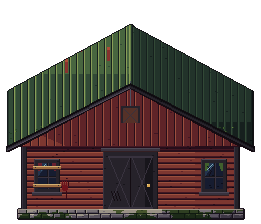
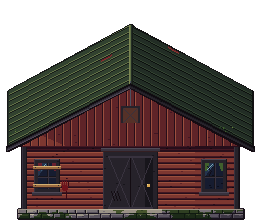
Run redesigned from a per-frame leg table (airborne frame, heel kick, lean 4); grab carry pose; tin roofs with 2 px ribs installed (6 vs 5), eave wear and orange rust; motion round 2 logged
Claude-Session: https://claude.ai/code/session_01P6pGQCq2oe4GSAnTdGYxNB

Changed region(s): [[0.0307, 0.125, 0.9808, 0.6562], [0.9502, 0.625, 0.9808, 0.6562]]

diff --git a/hollow-acre/2d/tools/px/chibi3.js b/hollow-acre/2d/tools/px/chibi3.js
@@ -465,19 +465,20 @@ function human(dir,pose){SIT=!!pose.sit;const side=dir==='E'||dir==='W',fl=dir==
 // the run (owner, Nov 10: "I miss the old one. The arm swing is good but the tilting and legs look weird"): the old run's
 // lean, bounce and legs, with the new arm pump (each bent arm against its own-side leg, still bent on the passing frames)
 function runPose(f,dir){const pose={};const side=dir==='E'||dir==='W',back=dir==='N',fl=dir==='W'?-1:1;
-  const ph=(f-1)/8*Math.PI*2,c=Math.cos(ph),s=Math.sin(ph);const S=KID?4:5;
-  /* motion judge r2 (ground track): the old legs lifted the foot while it travelled back, so the planted foot slid forward
-     (a moonwalk) and the passing foot hid behind the standing shin, which read as a skip. Now the planted foot travels
-     back, the lifted one swings forward trailing 3 px behind the standing shin; the body is low just before the passing
-     frame (the support knee bent) and high after push-off, never more than 1 px between neighbouring frames */
-  const D=[0,0,1,0,-1,0,1,0,-1][f]||0;pose.crouch=(f%4===2||f%4===3)?1:0;pose.bob=D-pose.crouch;pose.hairLag=0;pose.lean=3;pose.nod=side?0:1;
-  if(side){const a=Math.round(c*S),b=-a;const liftA=s<0?Math.round(-s*4):0,liftB=s>0?Math.round(s*4):0;
-    const tuck=(d,l)=>l>2?d-3:d-Math.round(l*.5);pose.legs=[[tuck(a,liftA),liftA],[tuck(b,liftB),liftB]];
-    const base=6,A=1.5;const hand=(k,far)=>{const dx=Math.round(k*A);if(dx===0)return [fl*(far?0:2),base-2];
+  const ph=(f-1)/8*Math.PI*2,c=Math.cos(ph);
+  /* motion judge r3: a run is not a fast walk. Each leg follows its own table (foot offset forward, lift): contact in front,
+     support under the hips, push off on the toe, AIRBORNE (both feet up), heel kicked up behind, tucked high through the
+     pass, knee forward, reaching. The other leg is the same table half a cycle on. A stride longer than the walk's, a
+     moderate lean (owner: the old run's 3 read better than 6), the body low on the support frames, never 1 px more between
+     neighbours; the arm pump the owner liked stays */
+  const K=KID?.75:1;const LT=[[6,0],[3,0],[0,0],[-4,2],[-5,4],[-2,5],[2,4],[5,2]].map(([o,l])=>[Math.round(o*K),Math.round(l*K)]);
+  const i=(f-1+8)%8,A=LT[i],B=LT[(i+4)%8];
+  pose.crouch=(i%4===1||i%4===2)?1:0;pose.bob=0;pose.hairLag=0;pose.lean=4;pose.nod=side?0:1;
+  if(side){pose.legs=[A,B];
+    const a=Math.round(c*(KID?4:5));const base=6,AA=1.5;const hand=(k,far)=>{const dx=Math.round(k*AA);if(dx===0)return [fl*(far?0:2),base-2];
       return dx>0?[Math.min(dx,4)*fl,base-3-Math.min(2,Math.round(dx*.4))]:[Math.round(dx*.9)*fl,base+1];};
     pose.hands=[hand(-a,true),hand(a,false)];}
-  else{const sg=back?-1:1;const dL=Math.round(c*4);const liftL=s<0?Math.round(-s*3):0,liftR=s>0?Math.round(s*3):0;
-    pose.legs=[Math.max(-4,sg*dL-liftL),Math.max(-4,-sg*dL-liftR)];pose.sway=0;const ay=6;   /* the swinging knee comes up (judge r2: both boots down on the passing frame) */
+  else{const sg=back?-1:1;const fy=([o,l])=>Math.max(-4,sg*Math.round(o*.6)-Math.round(l*.75));pose.legs=[fy(A),fy(B)];pose.sway=0;const ay=6;
     const hand=(fw,inward)=>fw>0?[Math.round(2*fw)*inward,ay-Math.round(3*fw)]:[Math.round(-1.5*fw)*-inward,ay+Math.round(sg*3*-fw)];
     pose.hands=[hand(-c,1),hand(c,-1)];}
   return pose;}
@@ -570,7 +571,12 @@ ROWS.forEach(([clip,dir,nf],r)=>{for(let f=0;f<nf;f++){
     else if(f===3){pose.hands=[[1,-5],[-1,-4]];}
     else if(f===4){pose.hands=[[0,3],[0,4]];}
     else{pose.hands=null;stance(pose,side,dir,fl);}}
-  if(clip==='spellcast'){const up=f>1;pose.hands=up?(side?[[fl*-1,-10],[fl*2,-11]]:[[1,-11],[-1,-11]]):null;}
+  /* spellcast frame 0 is the CARRY pose (motion judge r2, the sprinkler: it must start in his hand, not hang at his hip and
+     slide): side-on both hands forward at chest height on the post; facing down the right forearm up from an elbow at his
+     side; facing away the left hand out past his body. Its hand points go to the game as hands[dir][6] */
+  if(clip==='spellcast'&&f===0){if(side)pose.hands=[[fl*6,3],[fl*7,2]];else if(dir==='S'){pose.elbows=[[0,5],[1,6]];pose.hands=[[0,10],[-1,2]];}
+    else{pose.elbows=[[-2,6],[0,5]];pose.hands=[[-2,3],[0,10]];}}
+  else if(clip==='spellcast'){const up=f>1;pose.hands=up?(side?[[fl*-1,-10],[fl*2,-11]]:[[1,-11],[-1,-11]]):null;}
   /* sit (motion judge: facing us it read as a standing person made shorter; one low frame in three read as a twitch): facing
      us the lap is drawn, two knees and the shins below them, hands resting on the thighs; the breath holds two frames and
      moves only the chest, shoulders and head (hands stay on the lap) */
@@ -578,6 +584,7 @@ ROWS.forEach(([clip,dir,nf],r)=>{for(let f=0;f<nf;f++){
     pose.hands=side?[[fl*5,9-br],[fl*6,9-br]]:[[4+WIDE,11-br],[-4-WIDE,11-br]];pose.blink=f===3;}   /* the last frame is the blink; the game shows it one loop in three */   /* hands resting on the thigh / the knees; a breath */
   const EX0=EXPR;if(pose.expr)EXPR=pose.expr;human(dir,pose);EXPR=EX0;
   if(clip==='slash'&&HANDS_REC)HANDMETA[dir][f]=HANDS_REC.map(h=>h.map(Math.round));
+  if(clip==='spellcast'&&f===0&&HANDS_REC)HANDMETA[dir][6]=HANDS_REC.map(h=>h.map(Math.round));   // the carry pose
   // outline the whole figure; each outline pixel goes to the part whose pixel it borders
   const comp=flatten(PARTS.map(k=>LY[k]),FW,FH);
   for(let y=0;y<FH;y++)for(let x=0;x<FW;x++){if(G(comp,x,y))continue;let n=null,ow=null;

diff --git a/hollow-acre/2d/tools/sheetmotion.py b/hollow-acre/2d/tools/sheetmotion.py
@@ -72,14 +72,14 @@ for d, row, f0, n, fps in sorted(specs, key=lambda s: 'SENW'.index(s[0])):
             for gx in range(0, tr.width, TS * 2): td.line((gx, y, gx, y + LH - 4), fill=(50, 64, 42, 255))
             tr.alpha_composite(legs.resize((48 * TS, 28 * TS), Image.NEAREST), (x, y))
             a = np.asarray(fr_)[:, :, 3] > 0; ys = np.nonzero(a.any(axis=1))[0]; low = ys.max()
-            cols = np.nonzero(a[low])[0]
+            cols = np.nonzero(a[low])[0] if low >= 60 else np.array([], dtype=int)   # row 60 is the ground; anything higher is in the air
             for cx_ in cols: td.rectangle((x + cx_ * TS, y + (low - 36) * TS, x + cx_ * TS + TS - 1, y + (low - 36) * TS + TS - 1), fill=(230, 40, 40, 255))
             # contact runs (each boot), in world px
             runs = []; st = None
             for k_, cx_ in enumerate(cols):
                 if st is None: st = cx_
                 if k_ == len(cols) - 1 or cols[k_ + 1] != cx_ + 1: runs.append((st, cx_)); st = None
-            wx = ', '.join(f'{a_ + step * i:.0f}-{b_ + step * i:.0f}' for a_, b_ in runs)
+            wx = ', '.join(f'{a_ + step * i:.0f}-{b_ + step * i:.0f}' for a_, b_ in runs) or f'none: AIRBORNE ({60 - low} px up)'
             td.text((int(48 + step * N) * TS + 8, y + LH // 2 - 6), f'f{i % n + 1}: ground {wx}', fill=(255, 255, 255, 255))
         td.text((4, tr.height - 12), f'{step:.1f} px travelled per frame', fill=(255, 255, 255, 255))
         track = tr

diff --git a/hollow-acre/2d/tools/px/SCORES.md b/hollow-acre/2d/tools/px/SCORES.md
@@ -10,9 +10,9 @@ orders. Latest round first.
 | Family | Latest score | In the game? | First fix the judge named |
 |---|---|---|---|
 | The Hollow (Blender) | r28 claws cocked up above the shoulder in the wind-up 6 vs 5; r27 coiled wind-up 6 vs 5; r26 front/back grab inside its cell 6 vs the installed 4 (claws cut off); r25 wind-up that reads (lean back, claws cocked, face kept at full reach) 6 vs the installed 5; r24 6-6 tie (crouch too small); r23 whole-body side lunge 6 vs the installed 5 (r22 5: arms only); r21 side lunge kept in frame 6 vs the installed 4 (hands ran off the cell); r19 5 vs the r18 install 6 (lopsided scream read as a wave); r18 6 vs 5; r17 6 vs 5; r14 6 vs drawn 3 | yes: r28 (r18 body, side lunge with a coiled, claws-up wind-up, front grab inside its cell); earlier versions in spr/backup_v2/hollow | actions are the idle body with the arms changed: head thrown back, torso arched, coat reacting; facing left, the wind-up claw sits against the pumpkin: move it 6-8 px back and 4 down, add the darker far claw; an in-between or smear frame for the big arc from wind-up to reach; narrow sloping shoulders in side views; far reach arm raised 10+ px; a lavender rim on the near sleeve; the coat's back edge broken by folds; front grab: claws drive down and in toward the viewer in front of the coat, hips forward over a bent knee, a wind-up, sleeves riding up |
-| Player actions (tools in hand) | r2 (new in slot a): hoe 6 vs 4, axe 6 vs 3, pick 6 vs 4; r1 watering 6 vs 4; planting r4 5 vs 3 and setting a sprinkler 5 vs 2 (the whole body slid toward the square: read as teleporting) | hoe, axe, pick, watering, planting (r5 6 vs 3) installed Nov 10; sprinkler r9 6 vs 2 (walk-up first, a still action; installed); run r9 6 vs 4 (installed) | plant/grab: keep the boots planted and lean from the hips; seeds leave the hand on the 3rd frame, land on the 5th and stay |
+| Player actions (tools in hand) | MOTION r1-r2 (judged from tool-path and onion pictures, Nov 10): hoe 6 vs 5, axe 6 vs 3, pick 6 vs 4 (installed axe/pick swung sideways facing down/up), water 6 vs 5, planting 6 vs 5, sprinkler 5 vs 6 (carry pose added, re-judging); earlier still-frame rounds: r2 (new in slot a): hoe 6 vs 4, axe 6 vs 3, pick 6 vs 4; r1 watering 6 vs 4; planting r4 5 vs 3 and setting a sprinkler 5 vs 2 (the whole body slid toward the square: read as teleporting) | hoe, axe, pick, watering, planting (r5 6 vs 3) installed Nov 10; sprinkler r9 6 vs 2 (walk-up first, a still action; installed); run r9 6 vs 4 (installed) | plant/grab: keep the boots planted and lean from the hips; seeds leave the hand on the 3rd frame, land on the 5th and stay |
 | Idle, sit, hurt (all people) | idle 6 (baseline); sit r2 6 vs 3; hurt r3 6 vs 2 (wince face) | installed Nov 10 | sit: split the lap into two knees with 2 px of shin; hurt: see PRACTICE_LOG |
-| Player and townsfolk walk | r4 new 6 vs old 4 (new in slot a); r3 5 vs 4; r2 5-5 tie (the side arms paced with their own legs and the lifted foot moved backwards: both fixed) | yes, installed Nov 10 (old sheets in spr/backup_v2/chars_v5) | front rows: the hands barely move at 1x; drop the hand on the back-leg side 2 px and in over the belly, raise the other 2 px and tuck it behind the hip |
+| Player and townsfolk walk | MOTION r2 (ground track with contact numbers): walk 6 vs 4 (planted foot holds within 1 px mid-step); run new 4 vs installed 5, redesigned (airborne frame, heel kick, lean 4), re-judging; idle 6 vs 5, sit 6 vs 4, hurt 6/5/6 (Nell's guard over the neckline, fixed); earlier: r4 new 6 vs old 4 (new in slot a); r3 5 vs 4; r2 5-5 tie (the side arms paced with their own legs and the lifted foot moved backwards: both fixed) | yes, installed Nov 10 (old sheets in spr/backup_v2/chars_v5) | front rows: the hands barely move at 1x; drop the hand on the back-leg side 2 px and in over the belly, raise the other 2 px and tuck it behind the hip |
 | Crops (turnip, pumpkin, corn) | STRICT judge (outside-art reference set = 8, owner: crops only), 11 rounds: r1 all 5 or less; r6 8 of 11 at 6; r10 all 11 at 6; r11 confirm: all 11 hold (turnip_3 7, the rest 6) | yes, v14 installed Nov 10 (old stages in spr/backup_v2/crops/*_v2, earlier pumpkins *_v1) | to 8: corn leaves flowing and drooping like the reference, not stiff arches; rounder pumpkin with a fuller value range; one deliberate brightest spot per plant; corn_1 leaf bases staggered 3-4 px, a spiked tassel; pumpkin_1's pale left leaf notched |
 | Interiors (cabin, store, tavern, church) | baseline: family 4 (cabin 5, store 4, tavern 4, church 5); no speckle + floor sun patches + contact band: family 5 vs 4 (a wins every room; tavern 6) | yes (owner-rule exception: the old floors were speckled; old shells in spr/backup_v2/rooms_v1) | then fixed: random plank offsets (a fixed step drew diagonals), two close plank tones, two-tone church tiles, contact band centred on the foot, brighter home sun patch, cabin leaves as shapes. Next: cabin furniture as dark as the floor (needs contrast), copied bar counters and seed racks side by side, candy-coloured seed racks, the altar shadow's staircase edge |
 | UI (HUD, bag, talk, title) | baseline: HUD 5, bag 4; our own font Hollow Pixel (tools/px/pixfont.py, every glyph drawn): 6 vs old (a wins hud, bag, talk, title narrowly) | yes: no Google fonts anywhere now (the old mix of IM Fell, Spectral and Pixelify Sans were outside assets; "Caitlyn Coyle" misread as "Gaitlyn Goyle") | cut the type to three whole-number sizes matched to the art's pixel size, nothing smaller, least important text lifted to a warm light colour; a heavier, eerier wordmark; space between the ten hearts; warm the cold grey tab pills; bag must not cover the HUD |

diff --git a/hollow-acre/2d/tools/px/PRACTICE_LOG.md b/hollow-acre/2d/tools/px/PRACTICE_LOG.md
@@ -61,3 +61,11 @@ One row per critiqued attempt. The point is to see the number of attempts per ki
 | 2026-11-10 | walk, run in motion (ground track) | 1 (motion) | walk 5/5/4; run a 5 vs b 4 | feet skate (the planted foot moves 1.5 px a frame against 6 of ground); the run's passing frame stands up (skip) | run: planted foot travels back, lifted foot trails behind the shin, 1 px bounce steps; walk stride 5, cadence 17; front arms swing 7 px |
 | 2026-11-10 | idle, hurt, sit in motion | 1 (motion) | idle 5, hurt 6/6/5, sit 5 | idle breath was the whole body dropping (a nod); hurt arms alike (shrug); sit facing us a shortened stander | breath in the chest only, legs locked; one arm flung, one guarding; seated lap, knees, shins |
 | 2026-11-10 | buildings (moss) | 3 | 6 vs 5 (new in slot a) | barn roof seams run parallel to the ridge and read as one striped panel; roof planes one value; awning a film strip; no cornice | INSTALLED: moss only on the lowest 8 px of roofs and the bottom courses of stone walls (px.lua moss.low/base) |
+| 2026-11-10 | tin roofs (barns, feed store, shed, house) | 4 | 6 vs 4 (new in slot a) | each seam a lone 1 px lit line reads as hatching; stray dark specks; rust hairlines read as scratches | INSTALLED: gable seams from ridge to eave, olive tin, flat tone per slope |
+| 2026-11-10 | tin roofs | 5 | 6 vs 5 (new in slot b) | each slope one even rib pattern edge to edge; rust crimson like the paint (reads as blood/paint); the derelict barn's roof as clean as the good one | INSTALLED: 2 px ribs (lit + dark), no chip specks on tin |
+| 2026-11-10 | walk (motion, ground track at 4x with contact numbers) | 2 | 6 vs 4 | planted foot holds within 1 px mid-step (slips 4 on landing/push-off) vs the old 5 px every frame; front-view hands still only 2 px | PASS (stride 5, cadence 17) |
+| 2026-11-10 | run | 2 | new 4 vs installed 5 | the new run (lean 3, sinusoid legs) read as a sped-up walk: no airborne frame, walk-length stride; the installed run's f4/f8 push-off boot lies flat far behind as the body pops (the owner's 'weird legs') | redesigned from a per-frame leg table: contact, support, toe push-off, airborne, heel kick, tuck, knee forward, reach; stride 6, lean 4 |
+| 2026-11-10 | idle, sit | 2 | 6 vs 5, 6 vs 4 | idle: breath only at the crown outline; sit: lap no wider than the shirt | PASS |
+| 2026-11-10 | hurt | 2 | farmer 6, Hob 6, Nell 5 (vs 5/4/5) | Nell: the guarding forearm crossed her neckline (BLOCKING); frame 3 to 4 popped (no in-between); frame 6 kept the O mouth | in-between frame, the guard from an elbow out at the side up to the chin, idle face last |
+| 2026-11-10 | water, plant | 2 | 6 vs 5, 6 vs 5 | water: the stream full length at once and static; plant: rise still quick | PASS |
+| 2026-11-10 | grab (sprinkler) | 2 | new 5 vs installed 6 | hung from the hand at hip height side-on, so it started inside his legs and slid along the ground | a CARRY pose (spellcast frame 0: both hands on the post at chest height), held until he bends, lifted a little, then lowered |

diff --git a/hollow-acre/2d/tools/px/LESSONS.md b/hollow-acre/2d/tools/px/LESSONS.md
@@ -317,6 +317,12 @@ Each line is something an attempt taught. Newest and repeated mistakes go to the
 - A carried item starts in the hand: compute its grip from the frame's own hand point, never a fixed offset from the body.
 - Seated facing us: a lap 2 px wider than the hips, two knees with a 1 px cleft, 2 px of shin, hands on the thighs.
 - A hurt fling needs one arm up and the other guarding the chin (hands 6+ px apart in height), or it reads as a shrug.
+- [run r3] A run is not a fast walk: give it an AIRBORNE frame (both feet up 2+ px after the push-off), a stride longer
+  than the walk's, a heel kick behind and the knee coming through. Draw each leg from a per-frame table (offset, lift),
+  not a sine: a sine gives walk legs. The push-off boot stands on its toe, never lies flat far behind (the 'weird legs').
+- [grab r2] An item carried in the hand needs a carry POSE (hands up on it), not just a grip point: hung from a hand at the
+  hip, a post reaches the ground and slides when moved.
+- [tools] Mark ground contact only on the ground row; a track tool that calls the lowest pixel 'contact' hides airborne frames.
 - Ground speed vs stride: at 3 tiles/s with 7 px legs a planted foot cannot hold; lengthen the stride (5 px) and speed the
   cadence (P.t at speed/2.6 x 17 fps) to halve the skate rather than pretend it isn't there.
 - [OWNER, Nov 10, verbatim] "You obviously have not found a way to show them the animations because it's hitting the stone
@@ -385,6 +391,8 @@ Each line is something an attempt taught. Newest and repeated mistakes go to the
 - [r3] Moss goes where water sits: the lowest 6-8 px of a roof (the eaves) and the 2-3 courses above a wall's base, in
   clumps. Spread over whole roof planes it reads as camouflage or mould (6 vs 5).
 - [r3, next] Metal roof seams run from the ridge DOWN to the eave (parallel to the gable edges), never parallel to the ridge.
+- [r4] A seam is a 2 px rib: the lit line and a dark line under it; a lone lit line reads as hatching. Tone by slope, not
+  by distance (a tone stepping with x made a hard vertical band). Rust is a 2 px streak down a seam toward the eave.
 - The installed buildings carried the banned grit: a 1 px light dot on every shingle (frosted roofs at 1x), checkerboard
   eave and chimney shadows, and a stain layer smeared across trim and posts. Wear is drawn as shapes, never as a layer.
 - A cast shadow drawn in the outline colour merges with the outline above it and reads as a thicker line. Shadow a wall
